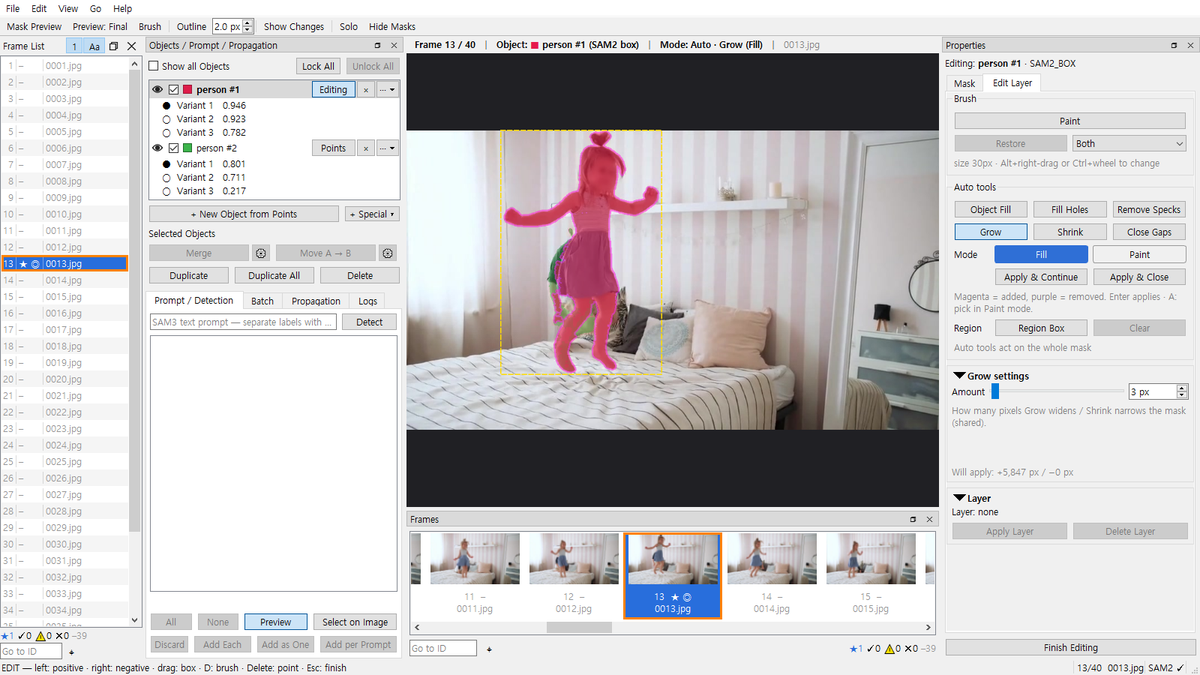
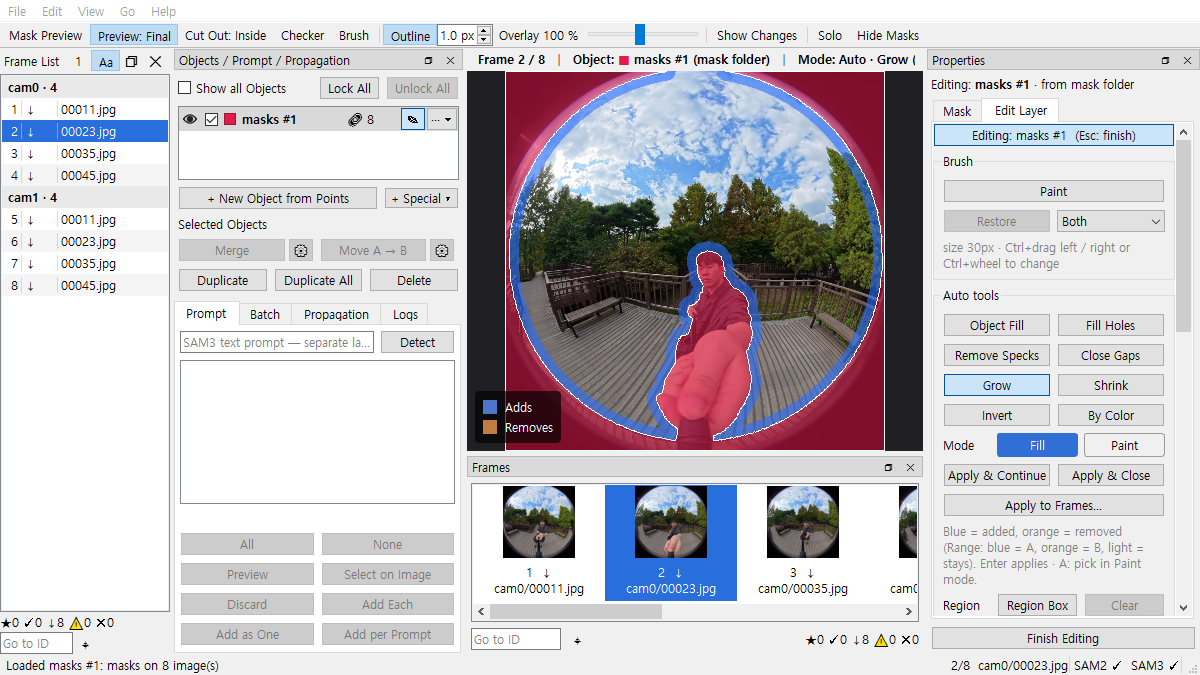
v0.4 p139: small fixes from the UX audit D (U7, U9, U11, U14, U15)

diff --git a/src/app/dialogs.py b/src/app/dialogs.py
@@ -60,6 +60,24 @@ def _path_row(edit: QLineEdit, pick) -> QWidget:
     return w
 
 
+def _file_row(edit: QLineEdit, pick) -> QWidget:
+    """A path row that says when the file is not there: a red frame and "file not found" (U14)."""
+    w = _path_row(edit, pick)
+    missing = QLabel("file not found")
+    missing.setStyleSheet("color: rgb(215, 40, 40);")
+    w.layout().insertWidget(1, missing)
+
+    def check(text: str) -> None:
+        gone = bool(text.strip()) and not Path(text.strip()).is_file()
+        edit.setStyleSheet("QLineEdit { border: 1px solid rgb(215, 40, 40); }" if gone else "")
+        missing.setVisible(gone)
+
+    edit.textChanged.connect(check)
+    check(edit.text())
+    w.missing = missing  # (tests read it)
+    return w
+
+
 def _section(title: str, layout) -> QGroupBox:
     """One of the Export window's sections (What, Where, Files, Check)."""
     box = QGroupBox(title)
@@ -124,9 +142,11 @@ class SettingsDialog(QDialog):
         self.max_side.setSpecialValueText("original size")
         self.max_side.setValue(settings.max_side)
         form = QFormLayout(self)
-        form.addRow("SAM2 checkpoint", _path_row(self.sam2, lambda: self._pick(self.sam2)))
-        form.addRow("SAM3 checkpoint", _path_row(self.sam3, lambda: self._pick(self.sam3)))
-        form.addRow("Sky model (ONNX)", _path_row(self.sky, lambda: self._pick(self.sky)))
+        self._rows = {}
+        for label, edit in (("SAM2 checkpoint", self.sam2), ("SAM3 checkpoint", self.sam3),
+                            ("Sky model (ONNX)", self.sky)):
+            self._rows[label] = _file_row(edit, lambda _c=False, e=edit: self._pick(e))
+            form.addRow(label, self._rows[label])
         form.addRow("Working max side (px)", self.max_side)
         self.cpu = QCheckBox("Run SAM on the CPU")
         self.cpu.setChecked(settings.use_cpu)
@@ -1246,7 +1266,7 @@ SHORTCUTS = (
         ("N", "New Object from points"),
         ("E", "Edit with points: start editing the selected Object; from the brush / an auto tool: back to points; "
               "points again: finish editing"),
-        ("D", "Edit with the brush: start editing (the selected Object); from points: the brush; "
+        ("D", "Paint (the brush): start editing (the selected Object); from points: the brush; "
               "the brush again: finish editing; in an auto tool: Paint mode (in Paint: pick all / none)"),
         ("Delete", "Delete the selected point, else the selected Objects (no question: Ctrl+Z; 🔒 locked ones stay)"),
         ("Esc", "Leave the tool (drops an auto tool's result), then finish editing"),

diff --git a/src/app/main_window.py b/src/app/main_window.py
@@ -432,10 +432,10 @@ class MainWindow(QMainWindow):
         self.act_cutout_checker.setIconText("Checker")
         self._show_preview_style()
         self.act_brush = self._action(
-            "Brush",
+            "Paint",  # the Edit Layer's Paint button: one name for one tool (U15, was "Brush")
             self.brush_key,
             ["D"],
-            "Brush editing (not editing: edits the selected Object with the brush): drag = add, "
+            "Paint with the brush (not editing: edits the selected Object with it): drag = add, "
             "Alt+drag = subtract, Ctrl+drag left / right or Ctrl+wheel = size",
             True,
         )
@@ -855,12 +855,12 @@ class MainWindow(QMainWindow):
         mode_text = {
             Mode.IDLE: "Ready — use an Object's Points button (E), + New Object from Points (N), or a SAM3 prompt",
             Mode.NEW_OBJECT: "NEW OBJECT — left click or drag a box on the image (Esc cancels)",
-            Mode.EDIT: "EDIT — left: positive · right: negative · drag: box · D: brush · Delete: point · Esc: finish",
+            Mode.EDIT: "EDIT — left: positive · right: negative · drag: box · D: paint · Delete: point · Esc: finish",
         }[s.mode]
         if self.picking():
             mode_text = "SELECT ON IMAGE — click / drag: add · Shift: toggle · Ctrl: remove · Edit is off meanwhile"
         if s.mode == Mode.EDIT and self.canvas.brush_mode:
-            mode_text = "BRUSH — drag: add · Alt+drag: subtract · Ctrl+wheel: size · wheel: zoom · D: brush off"
+            mode_text = "PAINT — drag: add · Alt+drag: subtract · Ctrl+wheel: size · wheel: zoom · D: paint off"
             if self.canvas.brush_tool != "paint":
                 mode_text = (
                     f"{self.canvas.brush_tool.replace('_', ' ').upper()} BRUSH — drag over the area,"

diff --git a/tests/app/test_v04_features.py b/tests/app/test_v04_features.py
@@ -3383,3 +3383,28 @@ def test_opening_a_rig_says_whether_it_is_a_fisheye(qapp, win, tmp_path):
     assert win.open_folder(root)
     assert win.rig_circles == {"cam0": None, "cam1": None}
     assert "No image circle in cam0, cam1: opened as a camera folder dataset" in win.log_view.toPlainText()
+
+
+def test_small_fixes_of_the_ux_audit_d(qapp, win, tmp_path):
+    """p139: U7 nothing left to add clears the hint, U9 Scope starts at All images, U14 a missing checkpoint
+    shows, U15 the toolbar's brush is called Paint as in the Edit Layer."""
+    from src.app.dialogs import SettingsDialog
+    from src.app.settings import Settings
+
+    dp = win.detection_panel
+    dp.set_busy(False, "3 candidate(s) — person 3. Check the ones to keep")
+    dp.set_detections([], [])
+    assert dp.status.text() == "" and not dp.preview_btn.isEnabled() and dp.preview_btn.isChecked()
+    assert win.propagation_panel.scope_value() == "all"
+    there = tmp_path / "sam2.pt"
+    there.write_bytes(b"x")
+    dlg = SettingsDialog(Settings(sam2_checkpoint=str(tmp_path / "none.pt"), sam3_checkpoint="",
+                                  sky_checkpoint=str(there)), win)
+    rows = dlg._rows
+    assert not rows["SAM2 checkpoint"].missing.isHidden()  # not there
+    assert rows["SAM3 checkpoint"].missing.isHidden()  # empty: optional
+    assert rows["Sky model (ONNX)"].missing.isHidden()
+    dlg.sam2.setText(str(there))
+    assert rows["SAM2 checkpoint"].missing.isHidden()
+    dlg.deleteLater()
+    assert win.act_brush.text().replace("&", "") == "Paint"

diff --git a/src/app/detection_panel.py b/src/app/detection_panel.py
@@ -132,7 +132,7 @@ class DetectionPanel(QWidget):
         self._busy = busy
         for w in (self.detect_btn, self.prompt, self.tree):
             w.setEnabled(not busy)
-        for b in (self.all_btn, self.none_btn, self.clear_btn, *self._add_buttons()):
+        for b in (self.all_btn, self.none_btn, self.clear_btn, self.preview_btn, self.select_btn, *self._add_buttons()):
             b.setEnabled(not busy and b.property("wanted") is not False)
         if message:
             self.status.setText(message)
@@ -168,8 +168,10 @@ class DetectionPanel(QWidget):
         self._n = len(detections)
         self._updating = False
         has = bool(detections)
-        for b in (self.all_btn, self.none_btn, self.clear_btn):
-            self._want(b, has)
+        for b in (self.all_btn, self.none_btn, self.clear_btn, self.preview_btn, self.select_btn):
+            self._want(b, has)  # Preview stays on for the next detection, grayed while there is nothing (U7)
+        if not has:
+            self.status.setText("")  # "N candidate(s) … Check the ones to keep" is done with (U7)
         self._want_add(any(checked))
 
     def _sync_checks(self, checked: Sequence[bool]) -> None:

diff --git a/src/app/propagation_panel.py b/src/app/propagation_panel.py
@@ -86,6 +86,7 @@ class PropagationPanel(QWidget):
         self.scope = QComboBox()
         for value, text in SCOPES:
             self.scope.addItem(text, value)
+        self.scope.setCurrentIndex(self.scope.findData("all"))  # the whole folder, as the manual says (U9)
         self.scope.setToolTip(
             "Selection: the images picked in the Frame List (Shift/Ctrl-click), or the pinned ones\n"
             "Range: Start ~ End · Custom: IDs and ID ranges, e.g. 1-4, 35, 23 · All images: the whole folder"

diff --git a/tests/app/test_v03_features.py b/tests/app/test_v03_features.py
@@ -919,6 +919,8 @@ def gated_propagate(release, entered, after: int):
 def test_reference_selection_pin_and_all(qapp, win):
     s = win.session
     pp = win.propagation_panel
+    assert pp.scope_value() == "all"  # the default (U9, p139)
+    pp.scope.setCurrentIndex(pp.scope.findData("selection"))
     win.go_to(1)
     win.new_object()
     s.click(30, 30)

diff --git a/docs/manual/02-workflow.md b/docs/manual/02-workflow.md
@@ -114,10 +114,10 @@ bedroom/
 
 ### 브러쉬와 오토 툴: Edit Layer
 
-- **Brush** (`D`): 드래그 = 칠하기(추가), `Alt`+드래그 = 빼기. 크기는 `Alt`+우클릭 드래그(오른쪽 = 크게), `Ctrl`+휠 또는 `Shift`+휠.
+- **Paint** (`D`, 툴바와 Edit Layer의 Brush › Paint가 같은 것): 드래그 = 칠하기(추가), `Alt`+드래그 = 빼기. 크기는 `Alt`+우클릭 드래그(오른쪽 = 크게), `Ctrl`+휠 또는 `Shift`+휠.
   **Restore**: 칠한 곳의 손질을 되돌립니다(**Add** / **Subtract** / **Both**).
 - **Auto tools** (Edit Layer 탭): **Object Fill**(물체 경계까지 넓히기) · **Fill Holes** · **Remove Specks** · **Grow** · **Shrink** · **Close Gaps**.
-  1. 도구 버튼을 누르면 **Fill** 모드로 시작해, 결과 전체를 미리 보여 줍니다(마젠타 = 더해질 곳, 보라 = 빠질 곳).
+  1. 도구 버튼을 누르면 **Fill** 모드로 시작해, 결과 전체를 미리 보여 줍니다(파랑 = 더해질 곳, 주황 = 빠질 곳, 캔버스 왼쪽 아래 범례 **Adds / Removes**).
   2. 일부만 쓰려면 **Paint** 모드로 바꿔 쓸 부분을 칠해서 고릅니다(`Alt`+드래그 = 해제).
   3. **Apply & Continue** (`Enter`) = 반영하고 다음 결과 계산, **Apply & Close** (`Shift+Enter`) = 반영하고 도구 끝.
      `Esc`, 다른 도구, 같은 도구 버튼을 다시 누르면 반영하지 않고 나갑니다.
@@ -125,8 +125,8 @@ bedroom/
   - 설정값(Max size, Amount, Max gap …)은 **Settings** 칸에 있습니다.
 - **Apply Layer**: 손질을 굳혀 기본 마스크로 만듭니다. **Delete Layer**: 손질을 전부 버립니다.
 
-![Grow의 Fill 모드 미리보기: 마젠타 = 더해질 곳, 아래 Will apply에 바뀔 픽셀 수](img/02-auto-tool-fill.png)
-*Grow의 Fill 모드 미리보기: 마젠타 = 더해질 곳, 아래 Will apply에 바뀔 픽셀 수*
+![Grow의 Fill 모드 미리보기: 파랑 = 더해질 곳(캔버스 범례 Adds). 0022 사본, 불러온 마스크(↓)](img/02-auto-tool-fill.png)
+*Grow의 Fill 모드 미리보기: 파랑 = 더해질 곳(캔버스 범례 Adds). 0022 사본, 불러온 마스크(↓)*
 
 **확인할 것**
 

diff --git a/docs/manual/01-getting-started.md b/docs/manual/01-getting-started.md
@@ -43,7 +43,7 @@ Original(포인트 · 박스 · 불러온 마스크)  ∪  더하기 레이어  
 | 번호 | 이름 | 하는 일 |
 |---|---|---|
 | ① | **메뉴 바** (File · Edit · View · Go · Help) | 모든 명령이 키와 함께 있습니다. 메뉴를 열어 보면 단축키를 배울 수 있습니다 |
-| ② | **툴바** | 작업 중 자주 켜고 끄는 것만: Mask Preview · Preview: Final / Object(`X`) · Cut Out: Inside / Outside(`C`) · Checker · Brush · Outline(두께 칸) · Overlay 슬라이더(마스크 색 진하기, 값 더블클릭 = 100 %) · Show Changes · Solo · Hide Masks |
+| ② | **툴바** | 작업 중 자주 켜고 끄는 것만: Mask Preview · Preview: Final / Object(`X`) · Cut Out: Inside / Outside(`C`) · Checker · Paint(`D`, 브러시) · Outline(두께 칸) · Overlay 슬라이더(마스크 색 진하기, 값 더블클릭 = 100 %) · Show Changes · Solo · Hide Masks |
 | ③ | **Frame List** | 프레임 목록(ID · 표시 · 파일 이름). 제목줄의 `1` = 선택한 Object 기준으로 표시, `Aa` = 이름을 접어 좁게. 카메라 리그(`cam0/`, `cam1/`)는 카메라가 바뀌는 줄에 머리줄(`cam1 · 94`)이 붙고 이름은 파일 이름만 |
 | ④ | **Objects** | Object 목록. 한 줄: 👁 · 체크박스 · 이름 · 🔗 · 🔒 · Points · × · ···. 아래에 **+ New Object from Points**, **+ Special ▾** 와 선택한 Object용 버튼 |
 | ⑤ | **탭** | **Prompt**(SAM3로 찾기, 마우스를 올리면 Prompt / Detection) · **Batch**(여러 프레임에 한꺼번에) · **Propagation**(전파) · **Logs**(작업 기록) |

diff --git a/docs/log/PROGRESS_v0.4.md b/docs/log/PROGRESS_v0.4.md
@@ -980,6 +980,15 @@
 - 0022 리그 사본: 188장 1.8초, 8장 0.5초. 테스트 324개 통과(새 2개).
 - 06 2.1의 R1~R4가 모두 끝남. UX 점검 묶음 A(U6 p135 + R2~R4 p136~p138)도 끝.
 
+## v0.4-p139 — 작은 고침 (UX 점검 묶음 D: U7 · U9 · U11 · U14 · U15) (2026-10-09)
+- 사용자 요청: 묶음 D. 화면이 바뀌는 U10 · U12 · U13은 p140.
+- **U7** Add · Discard로 후보를 다 쓰면 `N candidate(s) … Check the ones to keep` 안내를 지우고 Preview · Select on Image를 회색으로(Preview는 켜진 채 남아 다음 Detect에 그대로).
+- **U9** Propagation Scope 기본값 `Selection` → **All images**(설명서 B4와 같게).
+- **U11** 설명서 B3 오토 툴 미리보기 색 마젠타 / 보라 → 파랑 = 더해질 곳 / 주황 = 빠질 곳(범례 Adds / Removes), 그림을 0022 사본으로 다시 찍음.
+- **U14** Settings: 체크포인트 · 하늘 모델 파일이 없으면 빨간 테두리 + `file not found`(SAM3처럼 비워 둔 칸은 표시 없음).
+- **U15** 툴바 `Brush` → **Paint**(Edit Layer의 Paint와 같은 것). 상태 줄 `D: paint`, F1 `D` 설명, 설명서 · keymap 문서.
+- 테스트 325개 통과(새 1개, Scope 테스트는 Selection을 골라서).
+
 ## 반영 안 함 (리뷰 평가 결과)
 - 전파 Preview 단계: 결과가 바로 Undo 되고 Cancel이 결과를 버리므로 이미 같은 효과
 - Frame List와 하단 줄 통합: 역할이 이미 나뉨(목록 = 이동, 줄 = 썸네일)

diff --git a/docs/backlog/ui-issues.md b/docs/backlog/ui-issues.md
@@ -11,6 +11,13 @@
 
 ## 완료
 
+### `v0.4-p139` · UX 점검 2차 묶음 D 1 (2026-10-09)
+- U7. Add 뒤에도 후보 안내와 눌린 Preview가 남음 → 안내 지움, Preview · Select on Image 회색
+- U9. Propagation Scope 기본값이 Selection → All images
+- U11. 설명서 B3 색이 마젠타 / 보라 → 파랑 / 주황, 그림 다시 찍음
+- U14. Settings에서 없는 체크포인트가 똑같이 보임 → 빨간 테두리 + file not found
+- U15. 툴바 Brush ↔ Edit Layer Paint → 툴바도 Paint
+
 ### `v0.4-p135` · UX 점검 2차 묶음 A (2026-10-09)
 - U6. 리그 이름이 가운데에서 줄어 번호가 안 보임(`cam0/…3.jpg`) → 카메라 머리줄 `cam1 · 94`, 이름은 파일 이름만, 앞에서부터 줄임
 
@@ -66,7 +73,7 @@
 
 ## 점검 기록
 - 1차 (2026-09-29): 실제 123장 사본 + 가짜 엔진, 1280×720 / 1500×900 / 1920×1040, 18건 발견 (버그 6 · 개선 12)
-- 2차 (2026-10-09): 0022 리그 사본 + 가짜 엔진, 1280×720 / 1920×1040, U1–U15(기획서 uxaudit). C(U3–U5) p133, B(U2 · U8) p134, A(U6) p135
+- 2차 (2026-10-09): 0022 리그 사본 + 가짜 엔진, 1280×720 / 1920×1040, U1–U15(기획서 uxaudit). C(U3–U5) p133, B(U2 · U8) p134, A(U6) p135, D(U7 · U9 · U11 · U14 · U15) p139
 
 ## 사용자 메모
 <!-- 여기에 한 줄씩: - 무엇이 / 어디서 / (캡처 파일 이름) -->

diff --git a/docs/manual/README.md b/docs/manual/README.md
@@ -19,6 +19,6 @@ SAM3가 글자로 대상을 찾고, SAM2가 클릭으로 따고 다듬고, SAM2 
 ## 읽는 법
 
 - 버튼과 메뉴 이름은 앱에 보이는 영어 그대로 씁니다: **Propagate Selected Objects**, File → **Export Final Masks…**
-- 키는 괄호 안에 씁니다: **Brush** (`D`). 모든 명령은 메뉴 바에도 키와 함께 있고, 앱에서 `F1`을 누르면 단축키 전체가 나옵니다.
+- 키는 괄호 안에 씁니다: **Paint** (`D`). 모든 명령은 메뉴 바에도 키와 함께 있고, 앱에서 `F1`을 누르면 단축키 전체가 나옵니다.
 - 그림의 예시 이미지: SAM2 저장소의 예제 영상 `bedroom`(Apache 2.0). COLMAP 모델은 그림용으로 만든 것입니다. 앱은 GPU 없이(CPU) 돌렸습니다.
 - 📷 표시는 아직 그림이 없는 자리입니다(SAM3 검출은 GPU가 필요하고, 하늘 · 피시아이 예시는 실외 / 피시아이 이미지가 필요).

diff --git a/docs/design/keymap.md b/docs/design/keymap.md
@@ -16,7 +16,7 @@
 
   A  S  D  F  G  H  J  K  L  ;  '
   A  S  D  F  G  H  ·  ·  ·  ·  ·          오토 툴: A 취소  S Fill  D Paint  F Apply & Close  G Apply & Continue
-                                            그 밖: D 브러쉬   F 기준(◎)으로   H Hide Masks
+                                            그 밖: D Paint     F 기준(◎)으로   H Hide Masks
 
    Z  X  C  V  B  N  M  ,  .  /
    Z  X  C  V  ·  N  ·  ,  .  ·            Z 잠깐 보기   X 흑백(Final↔Object)   C 잘라보기(안↔밖)   V Mask Preview   N New Object   , . 키프레임
